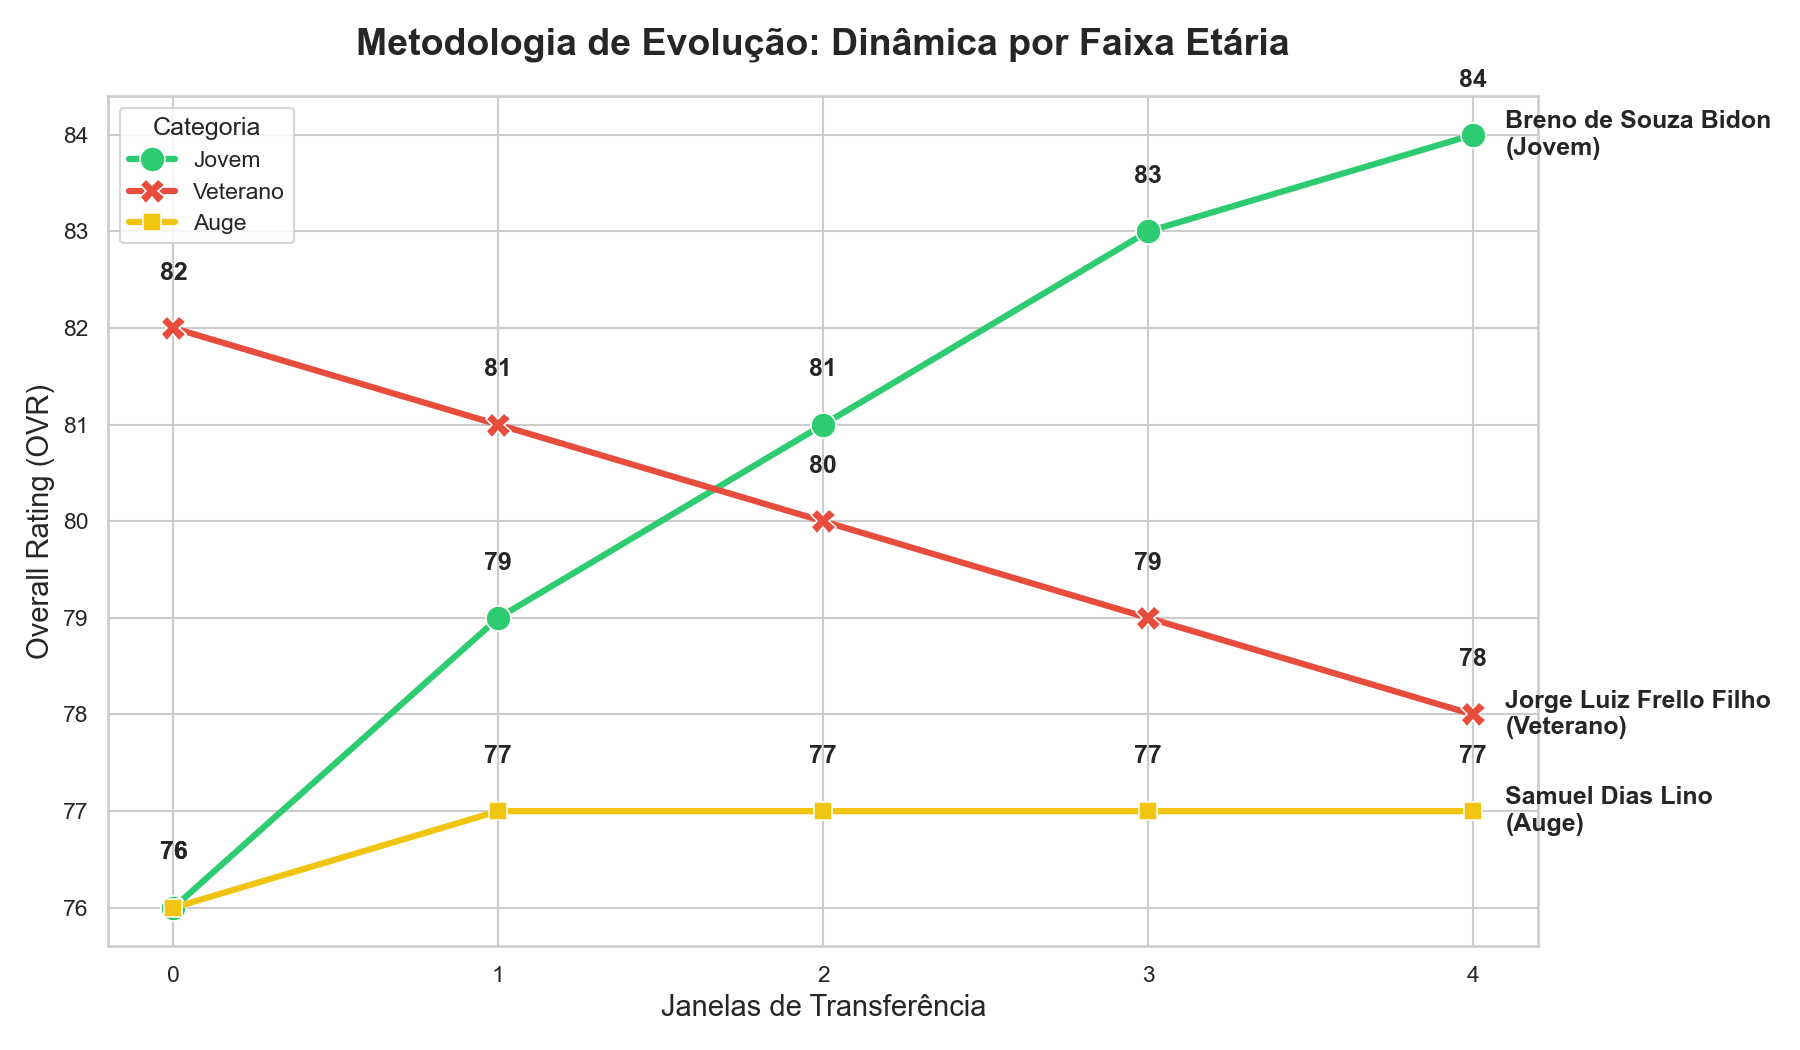
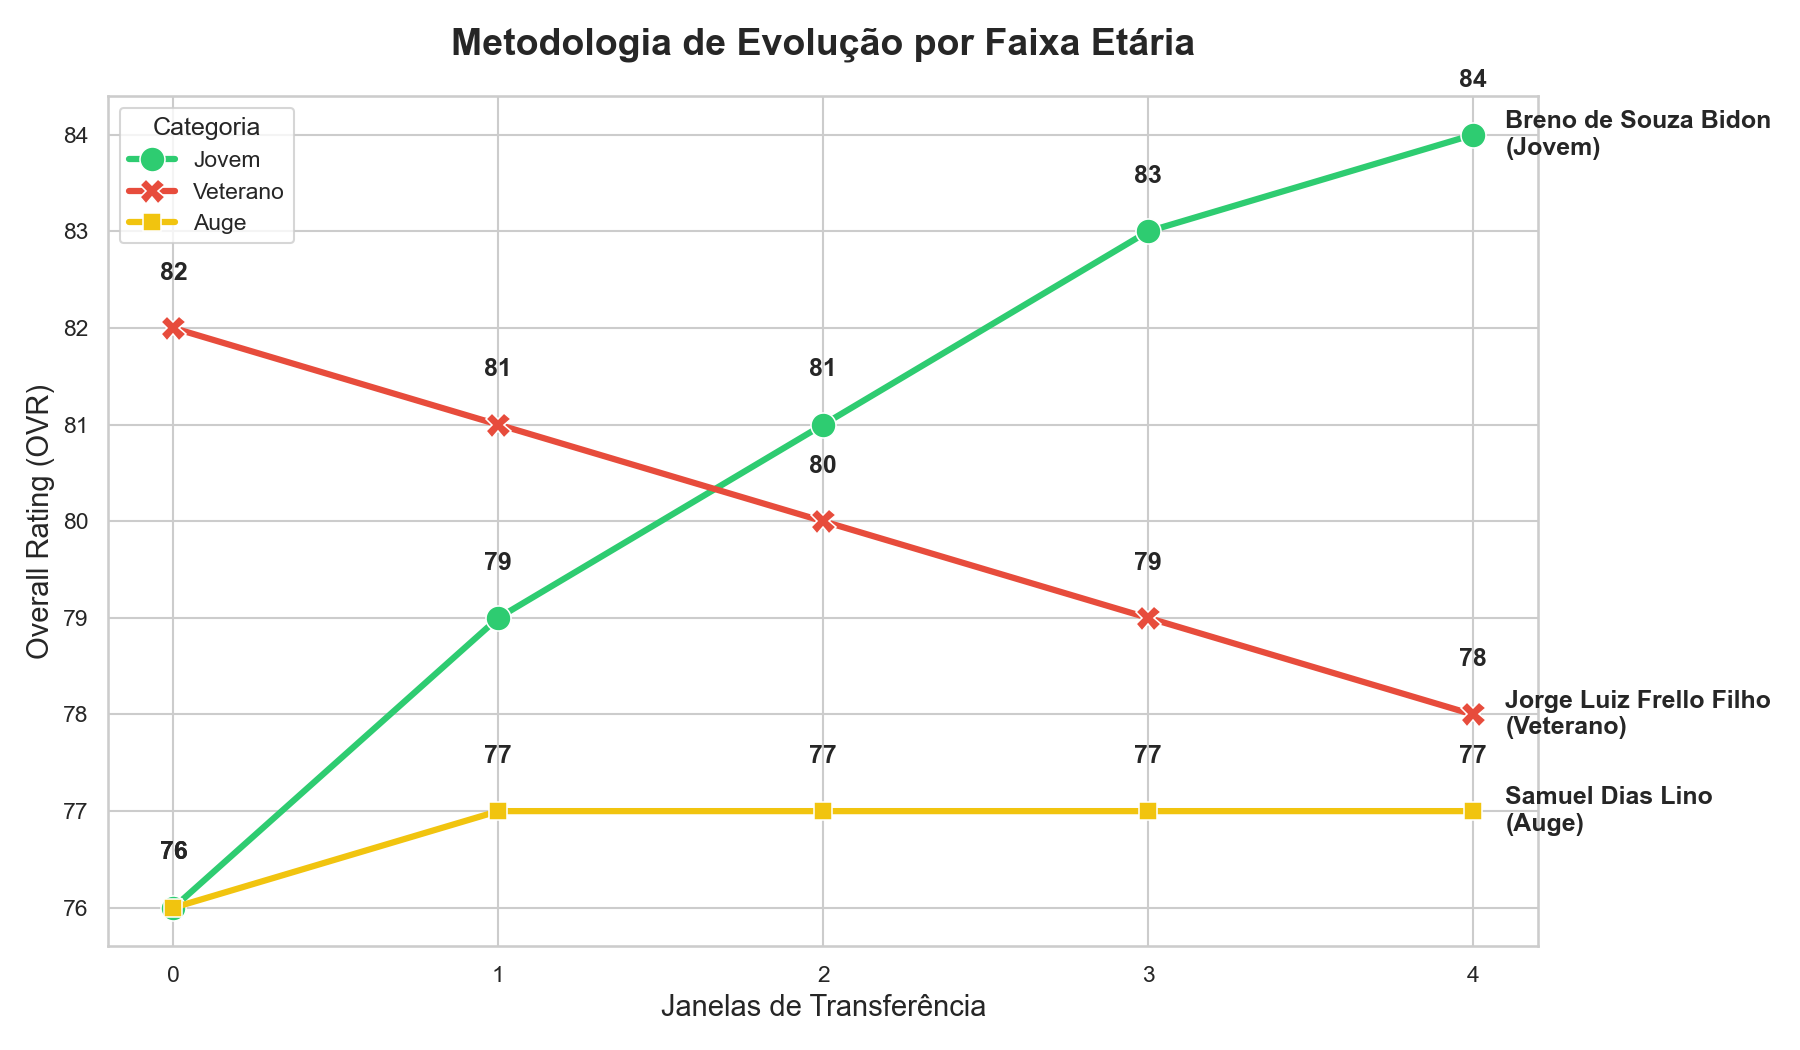
refactor: change name of the viz

Changed region(s): [[0.1867, 0.0305, 0.7156, 0.061]]

diff --git a/analysis/plots.py b/analysis/plots.py
@@ -52,7 +52,7 @@ def plot_ovr_evolution(df, targets, output_dir="viz/"):
         last = player_data.iloc[-1]
         ax.text(last['window']+0.1, last['ovr'], f"{nome}\n({cat})", va='center', fontweight='bold')
 
-    ax.set_title("Metodologia de Evolução: Dinâmica por Faixa Etária", fontsize=18, pad=20, fontweight='bold')
+    ax.set_title("Metodologia de Evolução por Faixa Etária", fontsize=18, pad=20, fontweight='bold')
     ax.set_ylabel("Overall Rating (OVR)", fontsize=14)
     ax.set_xlabel("Janelas de Transferência", fontsize=14)
     ax.set_xticks(df_plot['window'].unique())
